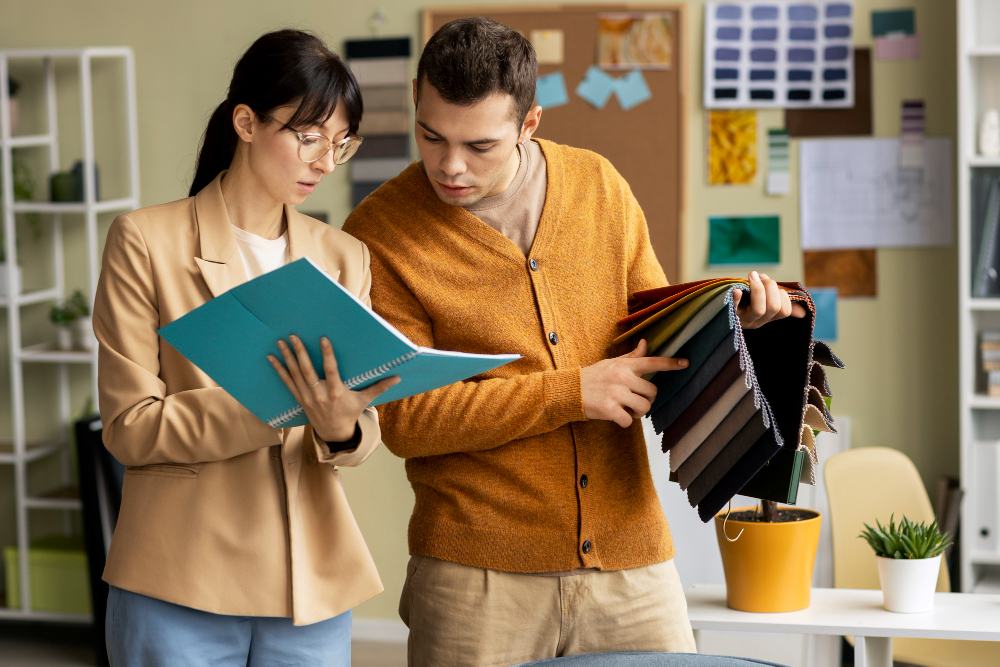
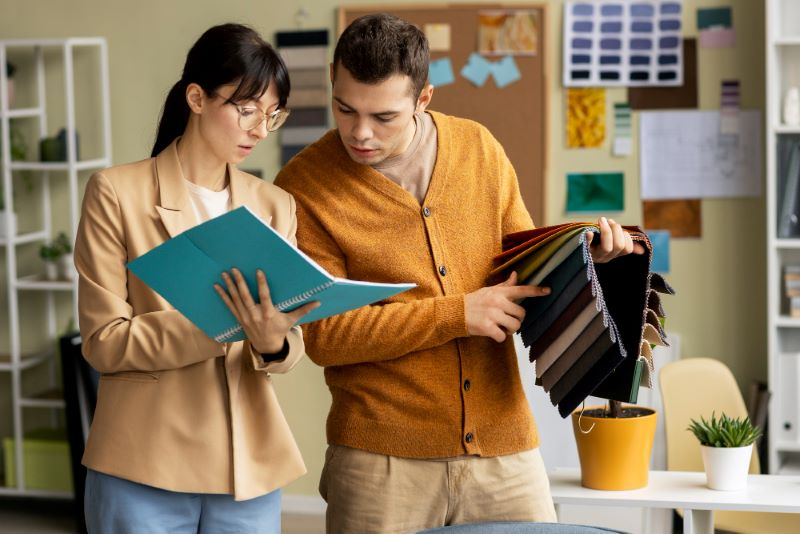
ajustes en tamaño y formatos de imagenes

Changed region(s): [[0.625, 0.4195, 0.75, 0.4794], [0.7812, 0.4195, 0.8125, 0.4494], [0.7188, 0.7491, 0.75, 0.779]]

diff --git a/style.css b/style.css
@@ -88,7 +88,7 @@ a.btn-outline-light:focus {
             rgba(0, 0, 0, 0.7),
             /* Oscurece la imagen para que el texto resalte */
             rgba(0, 0, 0, 0.2)),
-        url('./img/img_inicio2.jpg') center/cover no-repeat;
+        url('./img/img_inicio2.webp') center/cover no-repeat;
     /* Imagen de fondo para el banner */
     min-height: 70vh;
     /* Mayor altura para el banner */
